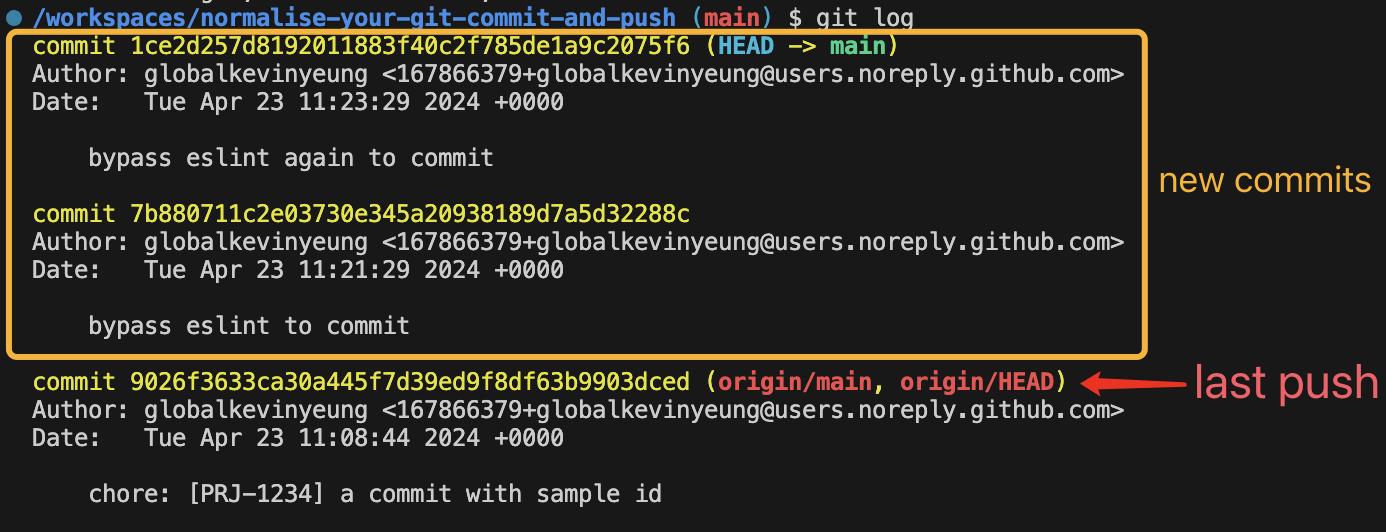
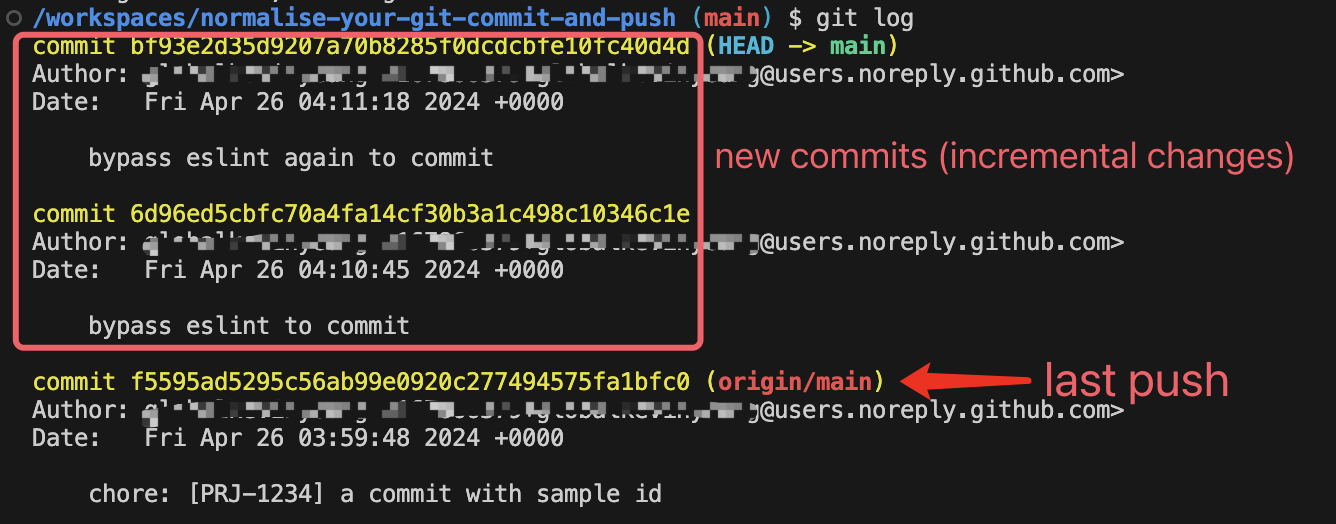
docs: wording change

Changed region(s): [[0.0, 0.0, 1.0, 0.855], [0.0614, 0.8855, 0.491, 0.9771], [0.0614, 0.2748, 0.3683, 0.3359]]

diff --git a/steps.md b/steps.md
@@ -384,7 +384,7 @@ export default {
   ]
 }
 
-var b // I included this line to intentionally elicit an error output in ESLint latter.
+var b // I included this line to intentionally elicit an error output in ESLint later.
 ```
 
 > Note: I use `export default xxx` here because my `package.json` includes the configuration `"type": "module"`. If you don't have this configuration, use `module.exports = xxx` instead.
@@ -445,8 +445,8 @@ You don't need to fix all the JavaScript files in the project, nor even all the 
 Let's comment out the line `var b` in `lint-staged.config.js` to fix its ESLint error, and then the commit will succeed.
 
 ```diff
--var b // I included this line to intentionally elicit an error output in ESLint latter.
-+// var b // I included this line to intentionally elicit an error output in ESLint latter.
+-var b // I included this line to intentionally elicit an error output in ESLint later.
++// var b // I included this line to intentionally elicit an error output in ESLint later.
 ```
 
 ```sh
@@ -603,7 +603,7 @@ Make some slightly adjustments:
 git commit -m "foo: this will also fail"
 ```
 
-As `foo` is not a valid `type`, it fails again.
+As `foo` is not a valid `type`, it fails again, But at least we have **one less problem** than the last commit.
 
 ![alt text](images/image-8.png)
 
@@ -716,21 +716,26 @@ Right now, we're going to push from `commit-c` to `commit-N`, and `commit-c` to 
 
 #### First Push
 
-Before making any changes and testing the incremental changes since the last push, we need to **push the code** first.
+Before making any changes and testing the incremental changes since the last push, it's **important** to **push the code** first.
 
-Later, we're going to make another push, which will be compared to this push as **Incremental Code**.
+Because later, we're going to make another push, which will be compared to this push as **Incremental Code**.
 
 ```sh
 git push origin main
 ```
 
-![alt text](fffss)
+![alt text](images/image-19.png)
 
 #### Incremental Code Linting Shell Script
 
-Create a **Shell script** file named `scripts/lint-incremental-push-files.sh` with the following code.
+Create a **Shell script** file named `scripts/lint-incremental-push-files.sh`.
 
-In this Shell script, we'll identify those **incremental** JavaScript files we want to **push**, and then run the ESLint command only on them.
+```sh
+mkdir scripts && \
+touch scripts/lint-incremental-push-files.sh
+```
+
+In this Shell script, we'll identify those **incremental** JavaScript files we want to **push**, and then run the ESLint command only on them. Input the following code into `lint-incremental-push-files.sh`.
 
 ```sh
 #!/bin/bash
@@ -815,7 +820,7 @@ export const field = {
 +var a
 ```
 
-You can not commit it because we have a `pre-commit` hook to lint the file and we just made a ESLint error in it.
+You **can not** commit it because we have a `pre-commit` hook to lint the file and we just made a ESLint error in it.
 
 ```sh
 git add . && \
@@ -849,9 +854,9 @@ git commit -am 'bypass eslint again to commit' --no-verify
 
 Just now, we have two commits including `index.js` and `eslint.config.js`, in which there are actually ESLint issues, but they were committed using tricks (`--no-verify`).
 
-The commits in the yellow rectangle are the so-called **incremental changes** to be pushed, but they should not be pushed since they have ESLint issues!
-
 ![alt text](images/image-14.png)
+
+The commits in the red rectangle are the so-called **incremental changes** to be pushed, but they should not be pushed since they have ESLint issues!
 
 But don't panic, we've got your back! They won't be able to be pushed because they will face the punishment of the **Git Push Hook** we made above!
 
@@ -864,6 +869,28 @@ git push origin main
 All **Incremental Errors** will be caught!
 
 ![alt text](images/image-15.png)
+
+You can not push them until fix the errors and commit again.
+
+`index.js`:
+
+```diff
+-var a
++// var a
+```
+
+`eslint.config.js`:
+
+```diff
+-var b;
++// var b;
+```
+
+```sh
+git add . && \
+git commit -m 'fix: [TEST-01] fix ESLint errors' && \
+git push oringin main
+```
 
 ### 5.2. Force `test` Before Push
 
